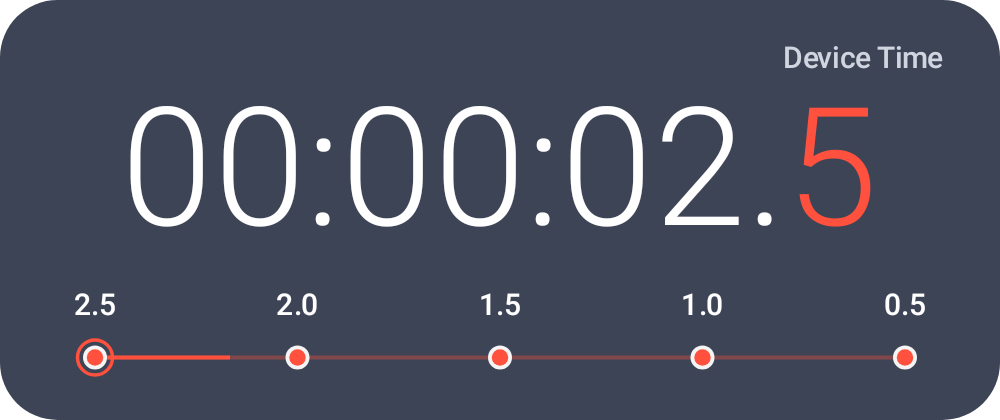
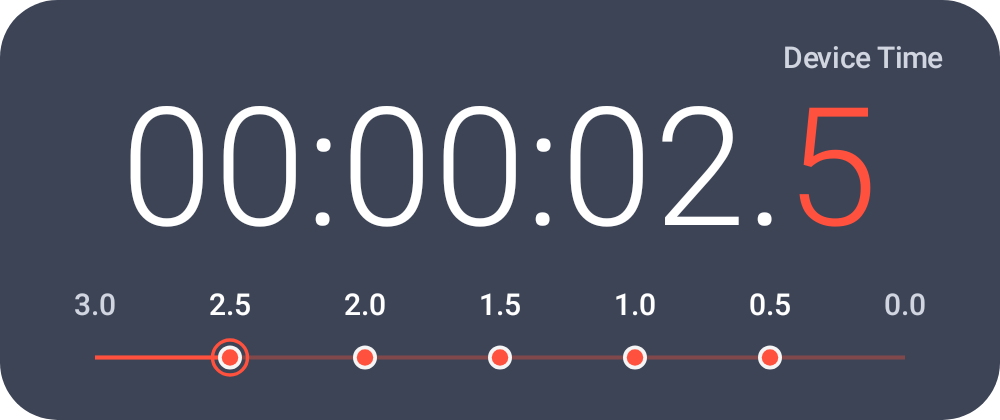
fix timeline

diff --git a/app/src/test/java/com/elith/precision/TimelineRenderTest.kt b/app/src/test/java/com/elith/precision/TimelineRenderTest.kt
@@ -1,0 +1,52 @@
+package com.elith.precision
+
+import android.graphics.Bitmap
+import android.graphics.Canvas
+import android.graphics.Color
+import android.view.View
+import org.junit.Assert.*
+import org.junit.Test
+import org.junit.runner.RunWith
+import org.robolectric.RobolectricTestRunner
+import org.robolectric.RuntimeEnvironment
+import org.robolectric.annotation.Config
+import org.robolectric.annotation.GraphicsMode
+
+@RunWith(RobolectricTestRunner::class)
+@Config(sdk=[35])
+@GraphicsMode(GraphicsMode.Mode.NATIVE)
+class TimelineRenderTest {
+    private fun render(remaining: Long): Bitmap {
+        val view=ClockView(RuntimeEnvironment.getApplication()).apply {
+            config=ClockConfig(showFrameTime=false)
+            frame=CountdownFrame.of(remaining)
+        }
+        val width=800; val height=view.desiredHeight(width)
+        view.measure(View.MeasureSpec.makeMeasureSpec(width,View.MeasureSpec.EXACTLY),View.MeasureSpec.makeMeasureSpec(height,View.MeasureSpec.EXACTLY))
+        view.layout(0,0,width,height)
+        return Bitmap.createBitmap(width,height,Bitmap.Config.ARGB_8888).also { view.draw(Canvas(it)) }
+    }
+    @Test fun fiveDotsSitInsideTheThreeSecondTrack() {
+        val bitmap=render(3000)
+        // Track: x=38..362. Half-second checkpoints are one sixth apart.
+        for(x in listOf(92,146,200,254,308)) {
+            val border=bitmap.getPixel(x*2,278)
+            assertTrue("Missing checkpoint at x=$x",Color.red(border)>220 && Color.green(border)>220 && Color.blue(border)>220)
+        }
+    }
+    @Test fun lineMeetsEachDotExactlyWhenItActivates() {
+        for((remaining,x) in listOf(2500L to 92,2000L to 146,1500L to 200,1000L to 254,500L to 308)) {
+            val before=render(remaining+1).getPixel(x*2,272)
+            val reached=render(remaining).getPixel(x*2,272)
+            assertNotEquals("Ring must wait for $remaining ms",ClockConfig().accent,before)
+            assertEquals("Ring must activate at $remaining ms",ClockConfig().accent,reached)
+        }
+    }
+    @Test fun progressTraversesBothEndSegments() {
+        val accent=ClockConfig().accent
+        assertNotEquals(accent,render(3000).getPixel(130,286))
+        assertEquals(accent,render(2500).getPixel(130,286))
+        assertNotEquals(accent,render(500).getPixel(670,286))
+        assertEquals(accent,render(1).getPixel(670,286))
+    }
+}

diff --git a/app/src/test/java/com/elith/precision/TimingTest.kt b/app/src/test/java/com/elith/precision/TimingTest.kt
@@ -35,13 +35,16 @@ class TimingTest {
     @Test fun checkpointsActivateAtExactThresholds() {
         assertEquals(listOf(2500L,2000L,1500L,1000L,500L), CountdownFrame.thresholds.toList())
         assertEquals(0,CountdownFrame.of(3000).activeCount)
+        val positions=listOf(1f/6f,1f/3f,0.5f,2f/3f,5f/6f)
         for (i in 0..4) {
             val t=CountdownFrame.thresholds[i]
             assertEquals(i,CountdownFrame.of(t+1).activeCount)
             assertEquals(i+1,CountdownFrame.of(t).activeCount)
+            assertEquals(positions[i],CountdownFrame.of(t).progress,0.0001f)
         }
         assertEquals(0f,CountdownFrame.of(3000).progress,0f)
         assertEquals(0.5f,CountdownFrame.of(1500).progress,0.0001f)
+        assertEquals(1f,CountdownFrame.of(0).progress,0f)
     }
     @Test fun formattingCeilsSoZeroIsNeverShownBeforeTarget() {
         assertEquals("00:00:02.5",formatCountdown(2500,1))

diff --git a/app/src/main/java/com/elith/precision/ClockView.kt b/app/src/main/java/com/elith/precision/ClockView.kt
@@ -93,9 +93,12 @@ class ClockView(context: Context): View(context), Choreographer.FrameCallback {
             canvas.drawLine(x0,y,x1,y,p)
             p.alpha=255
             canvas.drawLine(x0,y,x0+(x1-x0)*frame.progress,y,p)
+            p.textSize=12f; p.typeface=labelFont; p.color=Color.rgb(208,213,224)
+            canvas.drawText("3.0",x0-p.measureText("3.0")/2,top+12,p)
+            canvas.drawText("0.0",x1-p.measureText("0.0")/2,top+12,p)
             val labels=arrayOf("2.5","2.0","1.5","1.0","0.5")
             for(i in 0..4) {
-                val x=x0+i*(x1-x0)/4f
+                val x=x0+(x1-x0)*(3000L-CountdownFrame.thresholds[i])/3000f
                 p.textSize=12f; p.typeface=labelFont; p.color=Color.WHITE
                 canvas.drawText(labels[i],x-p.measureText(labels[i])/2,top+12,p)
                 p.color=Color.rgb(245,245,245); canvas.drawCircle(x,y,4.8f,p)

diff --git a/README.md b/README.md
@@ -9,15 +9,15 @@ Set an exact time on your device's local clock, then keep a clean, resizable cou
 
 ## Download
 
-### [Download the Android APK — v1.0.0](https://github.com/ELith03/precision-floating-clock-android/releases/download/v1.0.0/PrecisionClock-1.0.0-debug.apk)
+### [Download the Android APK — v1.0.1](https://github.com/ELith03/precision-floating-clock-android/releases/download/v1.0.1/PrecisionClock-1.0.1-debug.apk)
 
 **Android 8.0 or newer · Early-access debug build · No GitHub sign-in required**
 
-[Release notes and checksums](https://github.com/ELith03/precision-floating-clock-android/releases/tag/v1.0.0) · [All releases](https://github.com/ELith03/precision-floating-clock-android/releases)
+[Release notes and checksums](https://github.com/ELith03/precision-floating-clock-android/releases/tag/v1.0.1) · [All releases](https://github.com/ELith03/precision-floating-clock-android/releases)
 
 Download the `.apk` directly and open it on your phone. You do not need Android Studio, a computer, or a GitHub Actions artifact ZIP.
 
-> This is an initial debug-signed release for testing. If Android reports a signing conflict with a previously installed build, uninstall the older build first. Uninstalling clears saved settings. Independently built debug APKs can have different signing keys.
+> This is a debug build for testing. If Android reports a signing conflict with a previously installed build, uninstall the older build first. Uninstalling clears saved settings. Independently built debug APKs can have different signing keys.
 
 <p align="center">
   <img src="docs/previews/countdown.png" alt="Precision Clock at 2.5 seconds remaining, with white digits, an orange-red fraction and five checkpoints" width="720">
@@ -54,12 +54,14 @@ Time-only targets select the **next future occurrence**. Daily targets follow th
 
 ### The last three seconds
 
+The line spans **3.0 → 0.0 seconds**. The five dots sit inside that range, at 2.5, 2.0, 1.5, 1.0, and 0.5. The moving line reaches each dot when it activates.
+
 | Remaining time | Behavior |
 | --- | --- |
 | More than 3 seconds | Countdown only; no checkpoint line, dots, labels, or reserved timeline space |
-| 3.000 seconds | Timeline appears |
+| 3.000 seconds | Timeline appears at the left endpoint |
 | 2.5 / 2.0 / 1.5 / 1.0 / 0.5 seconds | Checkpoints activate in order |
-| 0 seconds | Countdown stops at zero and the timeline disappears |
+| 0 seconds | Progress reaches the right endpoint; countdown stops at zero and the timeline disappears |
 
 ## Controls
 
@@ -121,7 +123,7 @@ On Windows, use `gradlew.bat` instead of `bash ./gradlew`.
 
 The APK is written to `app/build/outputs/apk/debug/app-debug.apk`. Runtime dependencies are limited to Kotlin's standard library and Android platform APIs. Gradle, AGP, Kotlin, and test dependencies are version-pinned.
 
-The [GitHub Actions workflow](.github/workflows/android.yml) runs tests, lint, and compilation on pushes and manual dispatches. Successful builds upload APK/checksum and validation artifacts. The initial v1.0.0 download is published only after a successful main-branch build; later runs preserve the existing release assets.
+The [GitHub Actions workflow](.github/workflows/android.yml) runs tests, lint, and compilation on pushes and manual dispatches. Successful builds upload APK/checksum and validation artifacts. Tagged APKs are attached after a successful main-branch build. Existing downloads stay unchanged.
 
 ## Development and validation
 

diff --git a/docs/VALIDATION.md b/docs/VALIDATION.md
@@ -5,7 +5,7 @@ Final automated results are recorded below. No physical Android device or full e
 ## Phone acceptance checks
 
 1. Install the APK on Android 15, open it, set the 10-second test and enable floating mode. Grant overlay permission and return. Check the notification can open settings, hide/show and stop.
-2. Confirm the timeline is absent above 3 seconds. In the last 3 seconds it reveals all five labels: 2.5, 2.0, 1.5, 1.0, 0.5. Markers activate sequentially; zero hides the timeline and never goes negative.
+2. Confirm the timeline is absent above 3 seconds. The track runs from 3.0 at the left to 0.0 at the right, with five interior dots: 2.5, 2.0, 1.5, 1.0, 0.5. The line must reach each dot exactly as its ring activates; zero hides the timeline and never goes negative.
 3. Set upcoming midnight, next minute, and an exact date with seconds/milliseconds. Compare against the phone's local clock. Test one/two/three fractional digits. One-time completion should remain at zero after reopening.
 4. Set a daily time close to now. It must hold zero briefly and show the next day. Change timezone while running and while stopped; the target should retain its local hour. An absolute date target must retain its instant.
 5. Set size to 180 dp, then 700 dp. Drag to corners, pinch to resize, rotate portrait/landscape. The full expanded card should remain within available bounds. Reopen the app and confirm size/position persist.
@@ -20,7 +20,7 @@ Final automated results are recorded below. No physical Android device or full e
 - Installation and launch on a physical phone, real hardware refresh/traffic/frame performance, touch pass-through routing to another real app, vendor battery restrictions, physical cutouts, notification drawer presentation, vibration, and actual presented-frame timing.
 - Hardware validation: use the device checklist above. Current cloud build status and downloadable reports are available in the repository’s Actions tab.
 
-## Final automated results — 11 November 2026
+## Baseline results — 1.0.0, 11 November 2026
 
 | Check | Result |
 | --- | --- |
@@ -42,3 +42,7 @@ Robolectric virtual vsync is paused explicitly so a continuously scheduling fram
 Lint's remaining warnings concern untranslated/dynamic English strings, legacy inset lookup only on Android26–29, allocations in drawing, click accessibility/RTL guidance, backup metadata, and two stopService SAM-analysis false positives. They do not block this debug build; the warnings are included in the report.
 
[1 lines of base64/hex data omitted]
+
+## Timeline fix — 1.0.1
+
+Native Canvas regression tests check all five dot positions against the full 3.0-to-0.0 track, compare each activation ring immediately before and at its threshold, and check progress in both end segments. The same suite renders widget previews. The fixed drawing passed 29 tests (14 timing, 12 Android behavior, 3 timeline rendering), plus lint and APK compilation in [this run](https://github.com/ELith03/precision-floating-clock-android/actions/runs/42979734422). Physical-device checks remain pending. Current results are in [Actions](https://github.com/ELith03/precision-floating-clock-android/actions/workflows/android.yml).

diff --git a/CONTRIBUTING.md b/CONTRIBUTING.md
@@ -18,6 +18,6 @@ Keep the app offline and lightweight. Display measured statistics only, preserve
 
 ## Release maintenance
 
-The main-branch workflow creates the initial `v1.0.0` prerelease after tests, lint, and APK compilation pass. Its APK and SHA-256 checksum are public release assets. Existing release assets are never overwritten by subsequent documentation/build runs.
+Main-branch builds attach the versioned APK and checksum to GitHub Releases after tests and lint pass. Existing downloads are kept unchanged.
 
 Before publishing another version, update the app's version, artifact filename, release tag and README download together. Debug keys are generated per build environment and do not provide a stable update identity. For a long-term release channel, configure a consistent signing key using repository secrets; never store a private key in source control. Do not silently replace an existing version with an APK signed by a different key.
